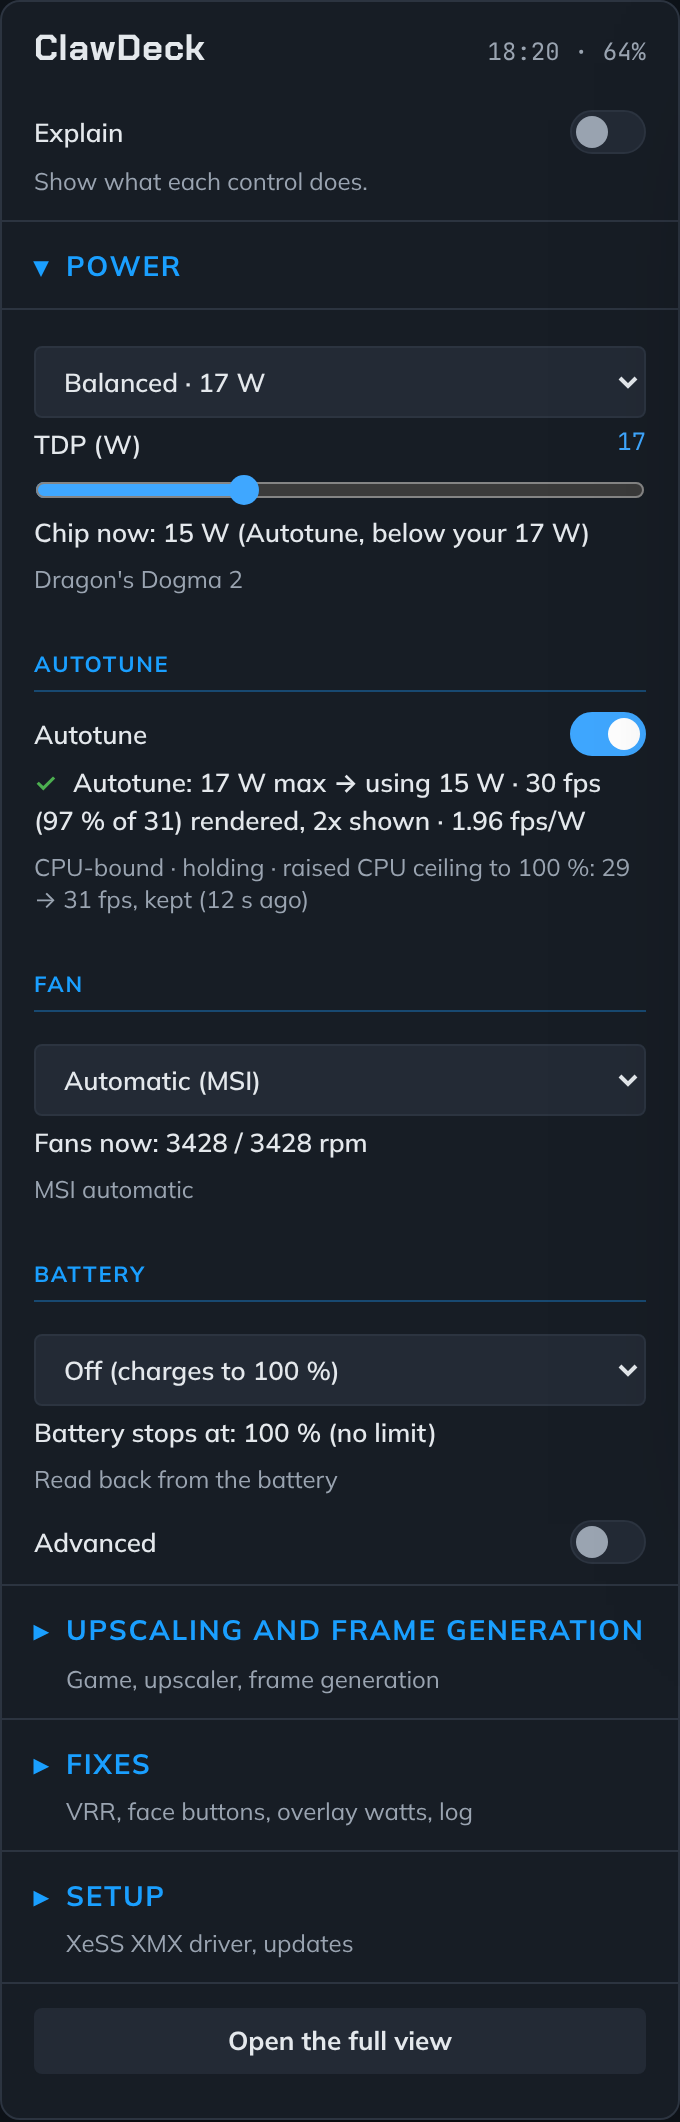
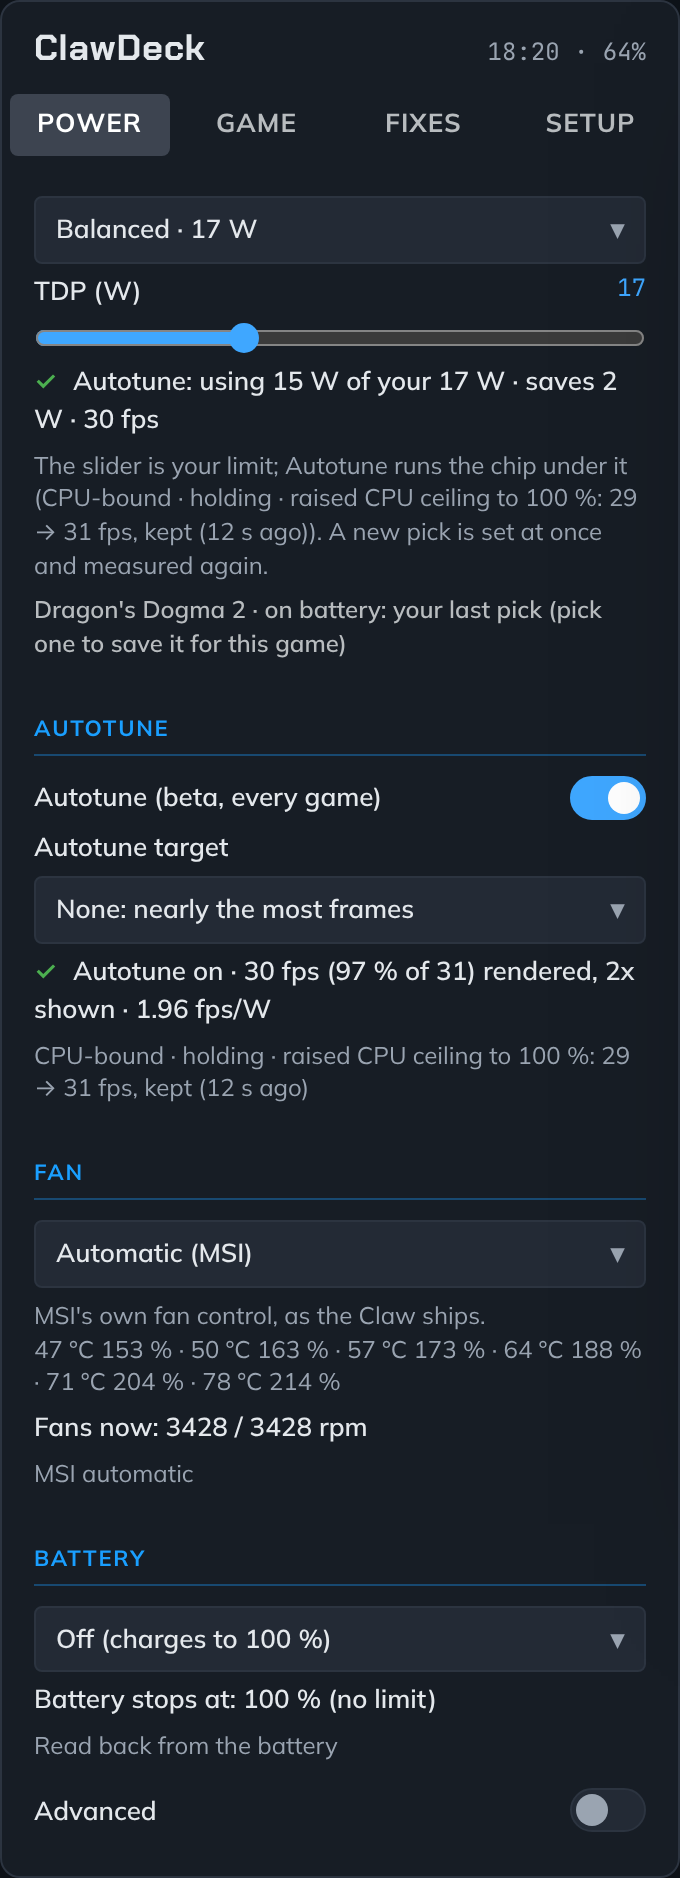
README: new screenshots of the tabbed panel, and beta 17-19's features
The four screenshots are taken again from the browser preview with the tabs (tools/readme-shots.mjs clicks a tab
instead of a fold, picks a game for the Game tab, and keeps the open game list and the first-run steps whole). The
text adds the LB / RB tabs, the Extreme fan preset and fan curve, the temperature guard, Autotune with emulators and
games without their own MangoHud log, ES-DE per game, GPU and battery watts, and the diagnostics log.

Claude-Session: https://claude.ai/code/session_019jJLUgw5uVPaAcLuRF5SqW

diff --git a/preview/mocks/decky-ui.tsx b/preview/mocks/decky-ui.tsx
@@ -161,10 +161,10 @@ export const DialogButton: FC<{ style?: any; disabled?: boolean; onClick?: () =>
 export const findClassModule = (_f: (m: any) => boolean): any => undefined;
 export const Tabs: FC<{ tabs: { id: string; title: ReactNode; content: ReactNode }[]; activeTab: string; onShowTab: (id: string) => void }> =
   ({ tabs, activeTab, onShowTab }) => (
-    <div style={{ position: "absolute", inset: 0, overflow: "auto" }}>
+    <div className="qam-tabs" style={{ position: "absolute", inset: 0, overflow: "auto" }}>
       <div style={{ display: "flex", gap: 4, padding: "4px 4px 8px" }}>
         {tabs.map((t) => (
-          <div key={t.id} onClick={() => onShowTab(t.id)} style={{ flex: 1, textAlign: "center", padding: "8px 2px", cursor: "pointer",
+          <div key={t.id} className="qam-tab" onClick={() => onShowTab(t.id)} style={{ flex: 1, textAlign: "center", padding: "8px 2px", cursor: "pointer",
             fontSize: 13, fontWeight: 700, borderRadius: 4, background: t.id === activeTab ? "#3d4450" : "transparent",
             color: t.id === activeTab ? "#fff" : "#b8bcbf" }}>{t.title}</div>
         ))}

diff --git a/preview/backend.ts b/preview/backend.ts
@@ -233,7 +233,7 @@ export const backend = {
   game_set_opti: () => ({ ok: true }),
   game_choose: () => ({ ok: true, env: { CLAWDECK_XMX: "1" } }),
   games_list: () => [{ appid: "2358720", name: "Black Myth: Wukong", dir: "/x", setup: "optiscaler", supported: true, tags: [{ text: "XeSS 2", kind: "xess" }, { text: "2x FG", kind: "fg" }] },
-    { appid: "3669870", name: "CONTROL Resonant", dir: "/x", setup: "optiscaler", supported: true, tags: [{ text: "FSR 4.1.2", kind: "fsr" }, { text: "3x FG", kind: "fg" }] },
+    { appid: "3669870", name: "CONTROL Resonant", dir: "/x", setup: "optiscaler", supported: true, tags: [{ text: "FSR 4.1.2", kind: "fsr" }, { text: "2x FG", kind: "fg" }] },
     { appid: "2638890", name: "Onimusha: Way of the Sword", dir: "/x", setup: "optiscaler", supported: true, tags: [{ text: "XeSS 2", kind: "xess" }] }],
   optiscaler_state: () => ({ version: "0.9.4", installed: true, games: 1, framegen: true, framegen_version: "v0.17" }),
   optiscaler_install: () => ({ ok: true, version: "0.9.4" }),

diff --git a/README.md b/README.md
@@ -20,9 +20,9 @@
 </p>
 
 <p align="center">
-  <img src="docs/img/game.png" alt="Upscaling and frame generation for one game" width="32%">
-  <img src="docs/img/power.png" alt="Power: profile, TDP, Autotune, fan and battery" width="32%">
-  <img src="docs/img/fixes.png" alt="Fixes: VRR, face buttons, overlay watts, health" width="32%">
+  <img src="docs/img/game.png" alt="The Game tab: upscaling and frame generation for one game" width="32%">
+  <img src="docs/img/power.png" alt="The Power tab: profile, TDP, Autotune, fan and battery" width="32%">
+  <img src="docs/img/fixes.png" alt="The Fixes tab: VRR, face buttons, gyro, overlay watts, health" width="32%">
 </p>
 
 ## One plugin, the whole Claw
@@ -38,10 +38,15 @@
 - 🔋 **Power that works:** profiles from 8 to 35 W (Steam's own TDP slider does nothing on the Claw 8 EX),
   **Autotune** with a **target frame rate**: pick 30, 40, 60 fps and it holds it with the fewest watts, settles in about
   a minute, gives the watts back within seconds in a heavy scene, and **Auto FPS** holds the closest it can when your
-  target is out of reach. Plus fan curves and a battery charge limit.
+  target is out of reach. It stays out of emulators whose frame counter lies (xemu), and a temperature guard cools a
+  hot spot by capping the CPU clock instead of cutting watts for everything. Plus fan curves and a battery charge
+  limit.
+- 🕹 **ES-DE games too:** each game you start from ES-DE gets its own power pick and Autotune, not one limit for NES and
+  PS3 alike.
 - 🎯 **Gyro on the Claw 8 EX (beta):** one button turns on the EX's gyro for Steam Input (Kisenir's method).
-- 🛠 **The fixes Linux doesn't have yet:** the 30–120 Hz VRR range, the two MSI face buttons, real watts in the
-  performance overlay, and a log flood that costs battery.
+- 🛠 **The fixes Linux doesn't have yet:** the 30–120 Hz VRR range, the two MSI face buttons, real CPU, GPU and
+  battery watts in the performance overlay, and a log flood that costs battery.
+- 🎛 **Tabs you switch with LB and RB:** Power, Game, Fixes and Setup, always on screen in Quick Access.
 
 **Tested on** the MSI Claw 8 EX AI+ (Panther Lake, Arc B390) on Bazzite, mainly with CONTROL Resonant and Onimusha:
 Way of the Sword, and by users on SteamOS. **Works on Bazzite, SteamOS and CachyOS:** ClawDeck only needs Decky
@@ -136,7 +141,7 @@ games.
 ## What's in the panel
 
 One panel in Quick Access with four tabs, switched with LB and RB: **Power**, **Game** (upscaling and frame
-generation), **Fixes** and **Setup**. **Explain** at the top says what each control does, why you'd use it and what it costs.
+generation), **Fixes** and **Setup**. **Explain every control** (in Setup) says what each control does, why you'd use it and what it costs.
 
 ### Power
 
@@ -144,8 +149,9 @@ generation), **Fixes** and **Setup**. **Explain** at the top says what each cont
 |---|---|
 | **Profile** | Battery saver, Battery, Balanced, Performance, Plugged, Max: the most power the game may use. |
 | **TDP (W)** | The same limit, 8–35 W. Moving it makes a Custom profile. |
-| **Autotune** | Finds the most frames your TDP gives in the running game, then lowers the TDP while the game stays within 5 % of that. Or pick a **target** (30–120 fps): the fewest watts that hold it, with watts back within seconds when a heavy scene drops below it; **Auto FPS** holds the closest frame rate it can when the target is out of reach. Counts rendered frames, so frame generation doesn't fool it. |
-| **Fan** | Automatic (MSI), Quiet, Cooling, Full speed, or your own curve. |
+| **Autotune** | Finds the most frames your TDP gives in the running game, then lowers the TDP while the game stays within 5 % of that. Or pick a **target** (30–120 fps): the fewest watts that hold it, with watts back within seconds when a heavy scene drops below it; **Auto FPS** holds the closest frame rate it can when the target is out of reach. Counts rendered frames, so frame generation doesn't fool it. Games without their own MangoHud log get their frame rate from Steam's overlay; xemu, which always shows 60 fps, keeps your limit. |
+| **Temperature guard** | Over 95 °C it caps the CPU's top clock when a few busy cores make the heat, and steps the watts down from what the chip draws otherwise; both come back once it's cool. |
+| **Fan** | Automatic (MSI), Quiet, Cooling, Extreme, Full speed, or your own curve; the panel shows the curve the fans follow now. |
 | **Battery** | Charge limit: Off, 80 %, 90 % or Custom. Keeps the battery healthier on the charger. |
 | **Advanced** | CPU boost, GPU clocks, GPU efficiency mode, CPU energy mode, Autotune's floor. |
 
@@ -171,14 +177,17 @@ start, and applies each game's fixes from OptiScaler's compatibility list.
 | **VRR fix 30–120 Hz** | The screen can do VRR from 30 Hz but tells the system 48, so games below 48 fps judder. One restart. 30 Hz is below MSI's official floor and some panels flicker there: if yours does, remove the fix. |
 | **Face buttons** (Claw 8 EX) | Maps the two MSI buttons: left = Steam menu, right = Quick Access. |
 | **Gyro (beta)** (Claw 8 EX) | Turns on the EX's gyro for Steam Input: downloads MSI's sensor-hub firmware (checked before it's installed), lets Linux read the gyro, and passes it to Steam as a Steam Deck gyro. Then a cold boot (shut down, power on) and recalibrate gyro in Steam. **Accelerometer too** is a separate toggle, off by default (it makes gyro aim worse). Remove undoes it. Bazzite for now. Method by Kisenir. |
-| **Performance overlay** | Real watts in Steam's performance overlay. |
+| **Performance overlay** | Real watts in Steam's performance overlay: CPU, GPU (with a MangoHud that reads the GPU counter) and the battery. |
+| **ES-DE** (when ES-DE is installed) | Each game you start from ES-DE gets its own power pick and Autotune. |
 | **System log** | Stops a split-lock log flood that costs battery. |
 | **Health check** | One line: all good, or what needs a look. |
 
 ### Setup
 
 The XeSS XMX driver ([xess-xmx-linux](https://github.com/HHHHanasak1/xess-xmx-linux)), OptiScaler's state, a
-self-test, and **Export log to Desktop** for bug reports.
+self-test, **Export log to Desktop** for bug reports, and a **Diagnostics log** (off by default): one row a second of
+power, temperature, battery, clocks and fans plus the controller's reports, so a bug report shows the seconds before a
+problem. **Explain every control** and the **Full view** are here too.
 
 ---
 
